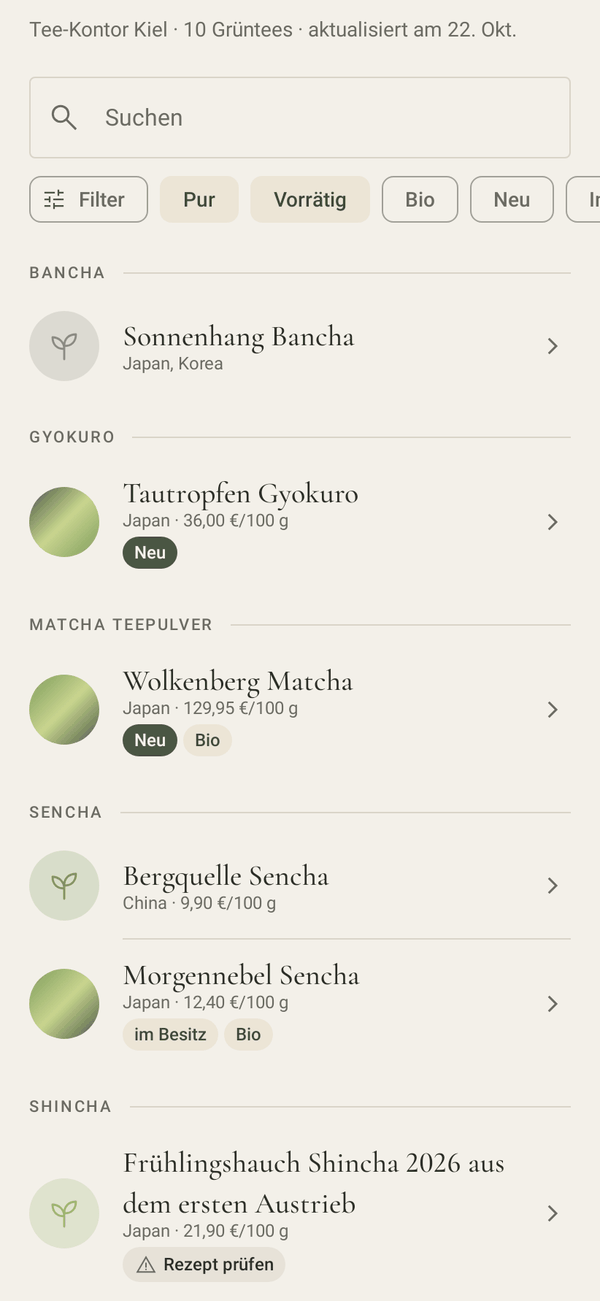
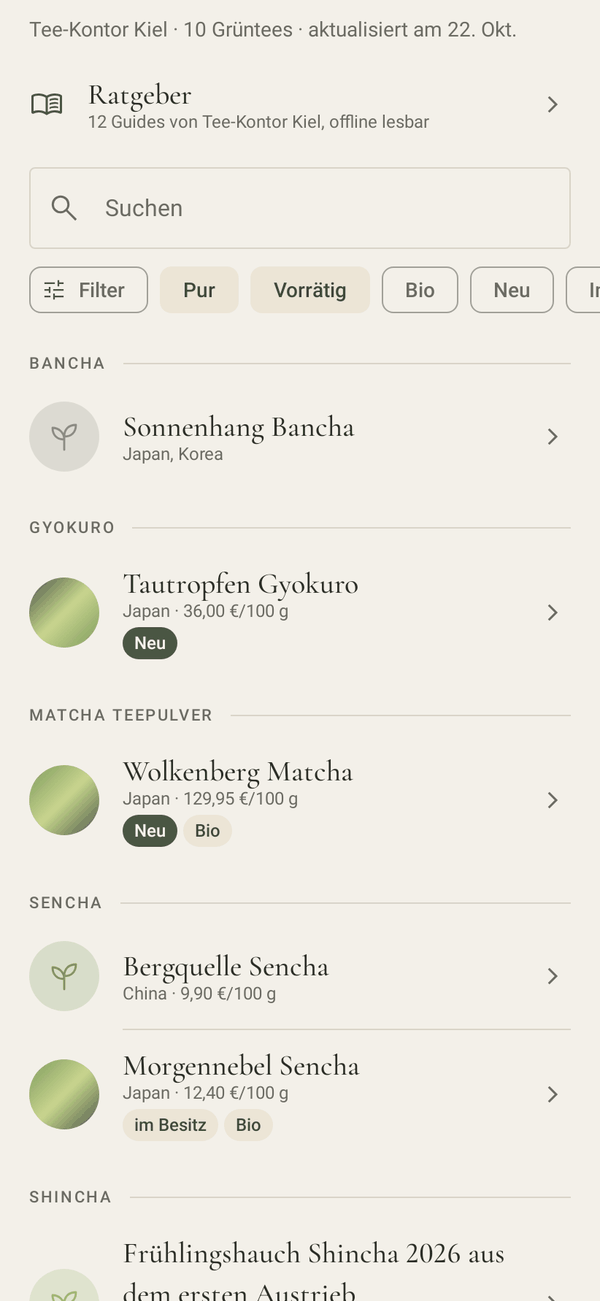
fix(catalog): one illustration in the empty Ratgeber; review renders (#76, CAT-09, D-087)
The empty guide list shows the empty state's illustration only, not the A11
header above it. Review renders of the Ratgeber and the catalog list with
its Ratgeber row in docs/design/review/M2/.

Claude-Session: https://claude.ai/code/session_01TEa8Scj1c19uHy7ruNYZYJ

diff --git a/feature/catalog/src/main/kotlin/com/umamit/feature/catalog/GuideScreens.kt b/feature/catalog/src/main/kotlin/com/umamit/feature/catalog/GuideScreens.kt
@@ -95,6 +95,14 @@ fun GuideListScreen(
         verticalArrangement = Arrangement.Top,
     ) {
         if (state.loading) return@ScreenScaffold
+        if (state.guides.isEmpty()) {
+            // Its own illustration stands in for the header.
+            EmptyState(
+                title = stringResource(R.string.guides_empty_title),
+                body = stringResource(R.string.guides_empty_body),
+            )
+            return@ScreenScaffold
+        }
         // A11 comes from the PO (docs/design/assets.md); the placeholder landscape stands in.
         Image(
             painter = painterResource(UmamiIcons.LandscapePlaceholder),
@@ -106,13 +114,6 @@ fun GuideListScreen(
                 .aspectRatio(HEADER_RATIO)
                 .padding(horizontal = UmamiSpacing.SideMargin, vertical = UmamiSpacing.Small),
         )
-        if (state.guides.isEmpty()) {
-            EmptyState(
-                title = stringResource(R.string.guides_empty_title),
-                body = stringResource(R.string.guides_empty_body),
-            )
-            return@ScreenScaffold
-        }
         Text(
             text = stringResource(R.string.guides_intro),
             style = MaterialTheme.typography.bodyMedium,

diff --git a/docs/design/review/M2/README.md b/docs/design/review/M2/README.md
@@ -11,6 +11,7 @@ font scale 2.0 (the worst-case set).
 | Folder | Content |
 |---|---|
 | `catalog/` | SCR-19 catalog list: default view (grouped by *Sorte*, available, „Pur" on; badges „Neu", Bio, „im Besitz", „Rezept prüfen"), filtered list with no hits, filter sheet, empty state with *Katalog laden* (A8 placeholder until the PO's image). SCR-22 refresh sheet: running, success (first load), summary of a later refresh, shop changed. SCR-21 tea detail: top (*In Sammlung aufnehmen*, *Im Shop öffnen*), end (description and the shop's brewing table verbatim), derived recipes with „Rezept prüfen", packages with estimates. SCR-23 add sheet and repurchase sheet (font 1.0 only). |
+| `guides/` | *Ratgeber* (CAT-09, #76): the list under the A11 header (placeholder landscape until the PO's image) with hero thumbnails and dates, its empty state (font 1.0 only), an article (SCR-20) at the top (hero, serif title, source line with date, text with a tea link) and at its end (list, image, links, *Im Browser öffnen*). The catalog list renders show its *Ratgeber* row. |
 | `onboarding/` | ONB-03 setup page *Katalog jetzt laden* / *Später*, and its loading state. |
 | `settings/` | The *Katalog* section: last refresh with *Jetzt aktualisieren*, and *Fotos laden* (SET-22, SET-23). |
 
@@ -19,4 +20,5 @@ Known points to judge:
   `Catalog_detailRecipes_*`), semi-transparent over section headings.
 - Rows without a photo show the tea-type leaf placeholder (03 §3.5); the sample photos are
   gradients.
-- Not built yet: the Ratgeber (SCR-20, #76) and the picker flow *Aus dem Katalog* (#72).
+- The article's back button floats over the text the same way when it scrolls (`Guide_articleEnd_*`).
+- Not built yet: the picker flow *Aus dem Katalog* (#72).

diff --git a/docs/specs/03-ux-ui.md b/docs/specs/03-ux-ui.md
@@ -714,7 +714,8 @@ exist: „Ratgeber · 12 Guides von Tee-Kontor Kiel, offline lesbar"): header
 A11 (the placeholder landscape until the PO's image), „Grüntee-Wissen von
 Tee-Kontor Kiel – auch ohne Verbindung lesbar.", the guides by title with
 the hero as round thumbnail and the date (else „Tee-Kontor Kiel ·
-Tee-Info"). Empty: „Noch keine Ratgeber." (D-087).
+Tee-Info"). Empty: the empty state (its illustration instead of the header),
+„Noch keine Ratgeber." (D-087).
 
 ### SCR-21 Katalog-Tee
 
